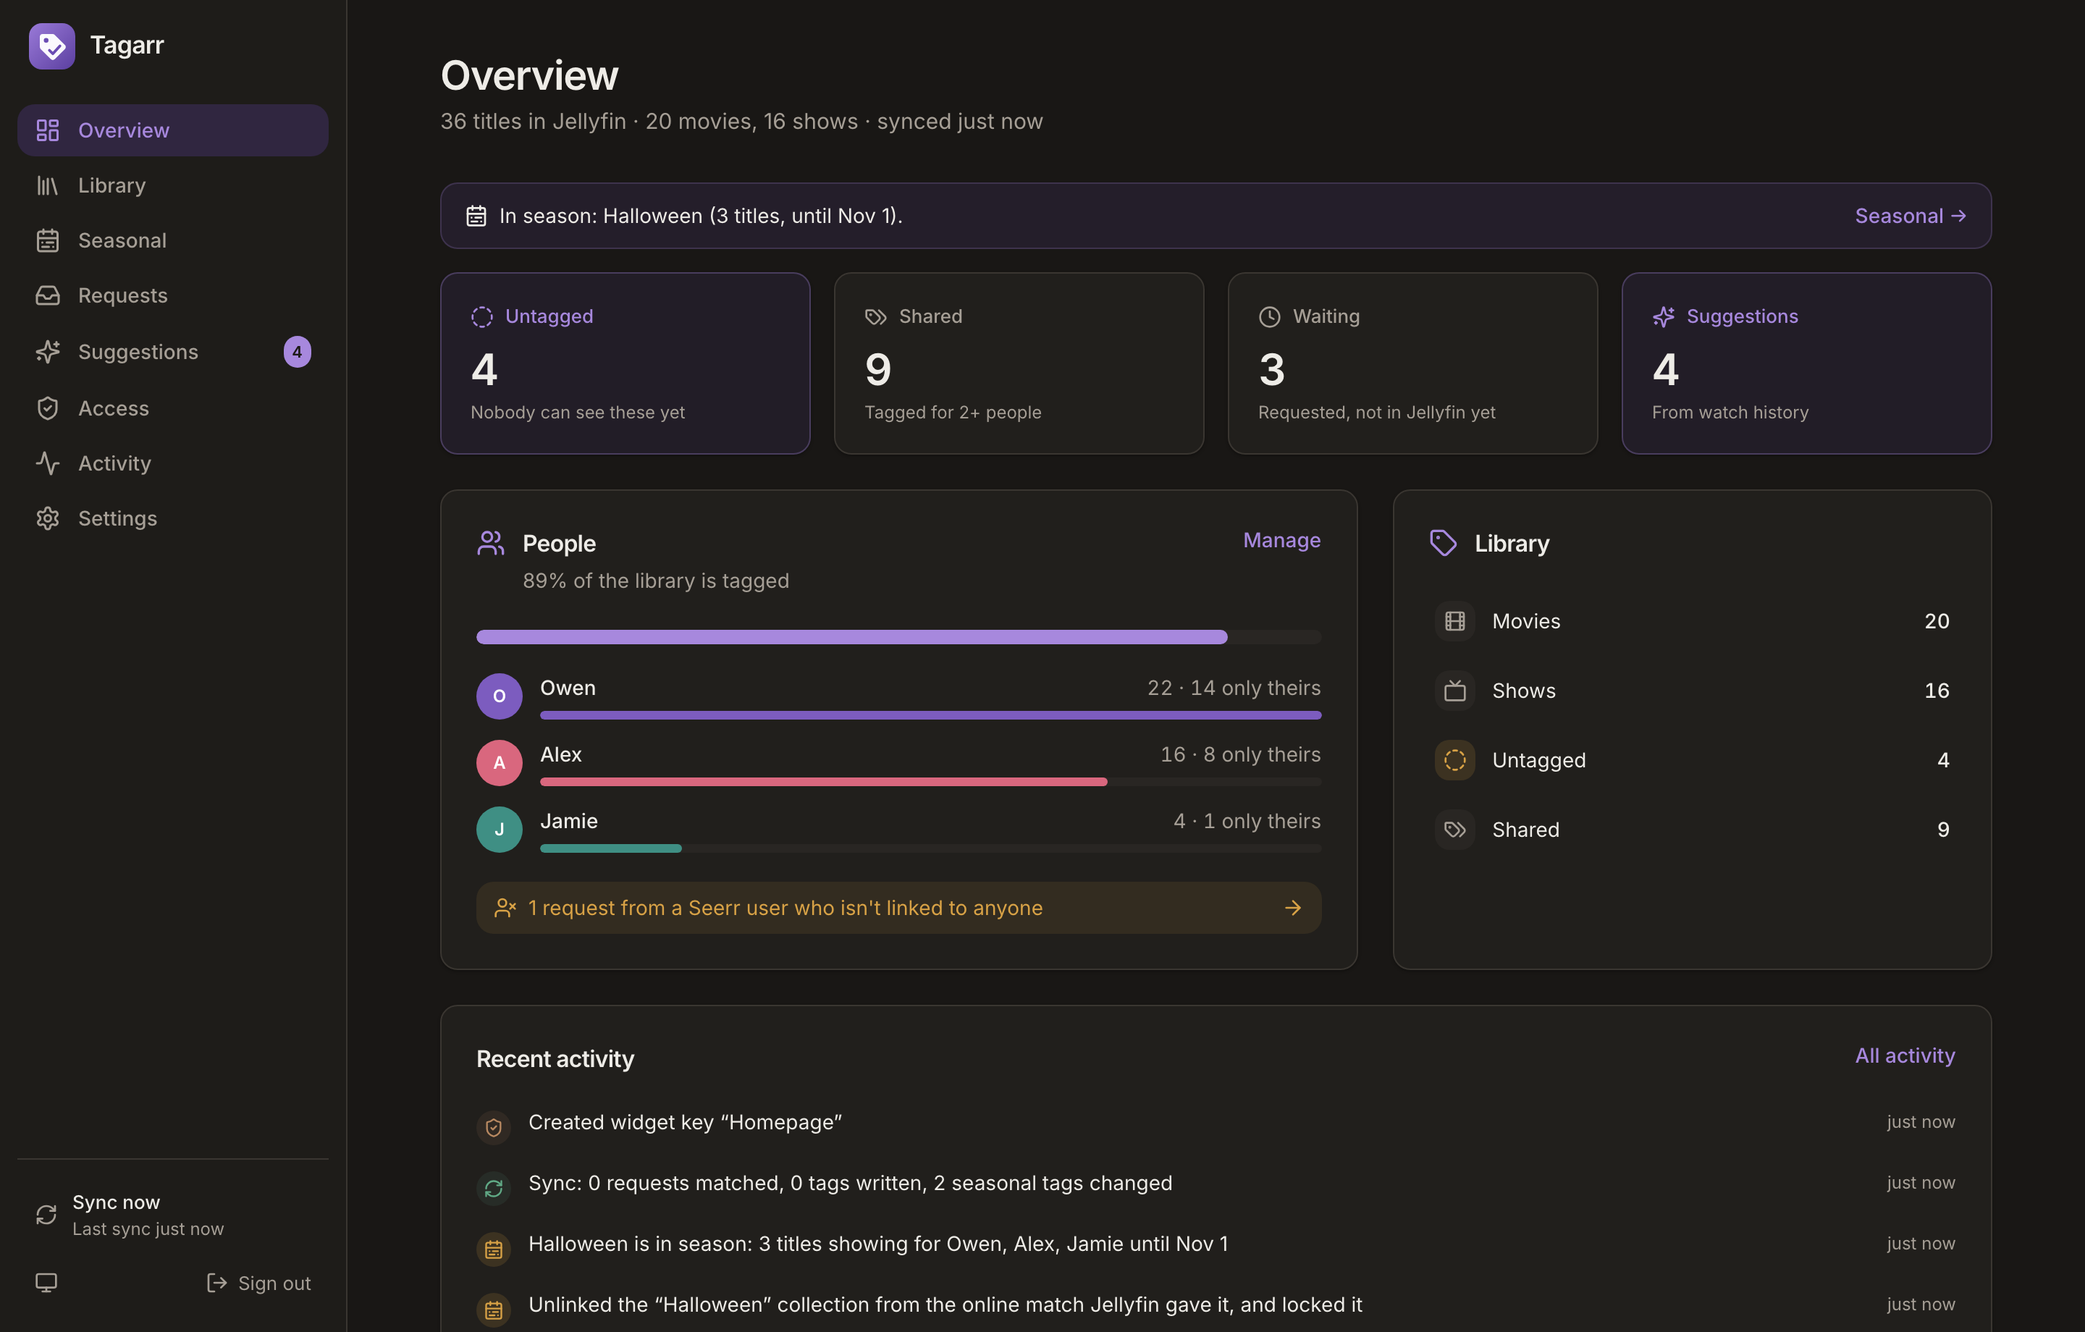
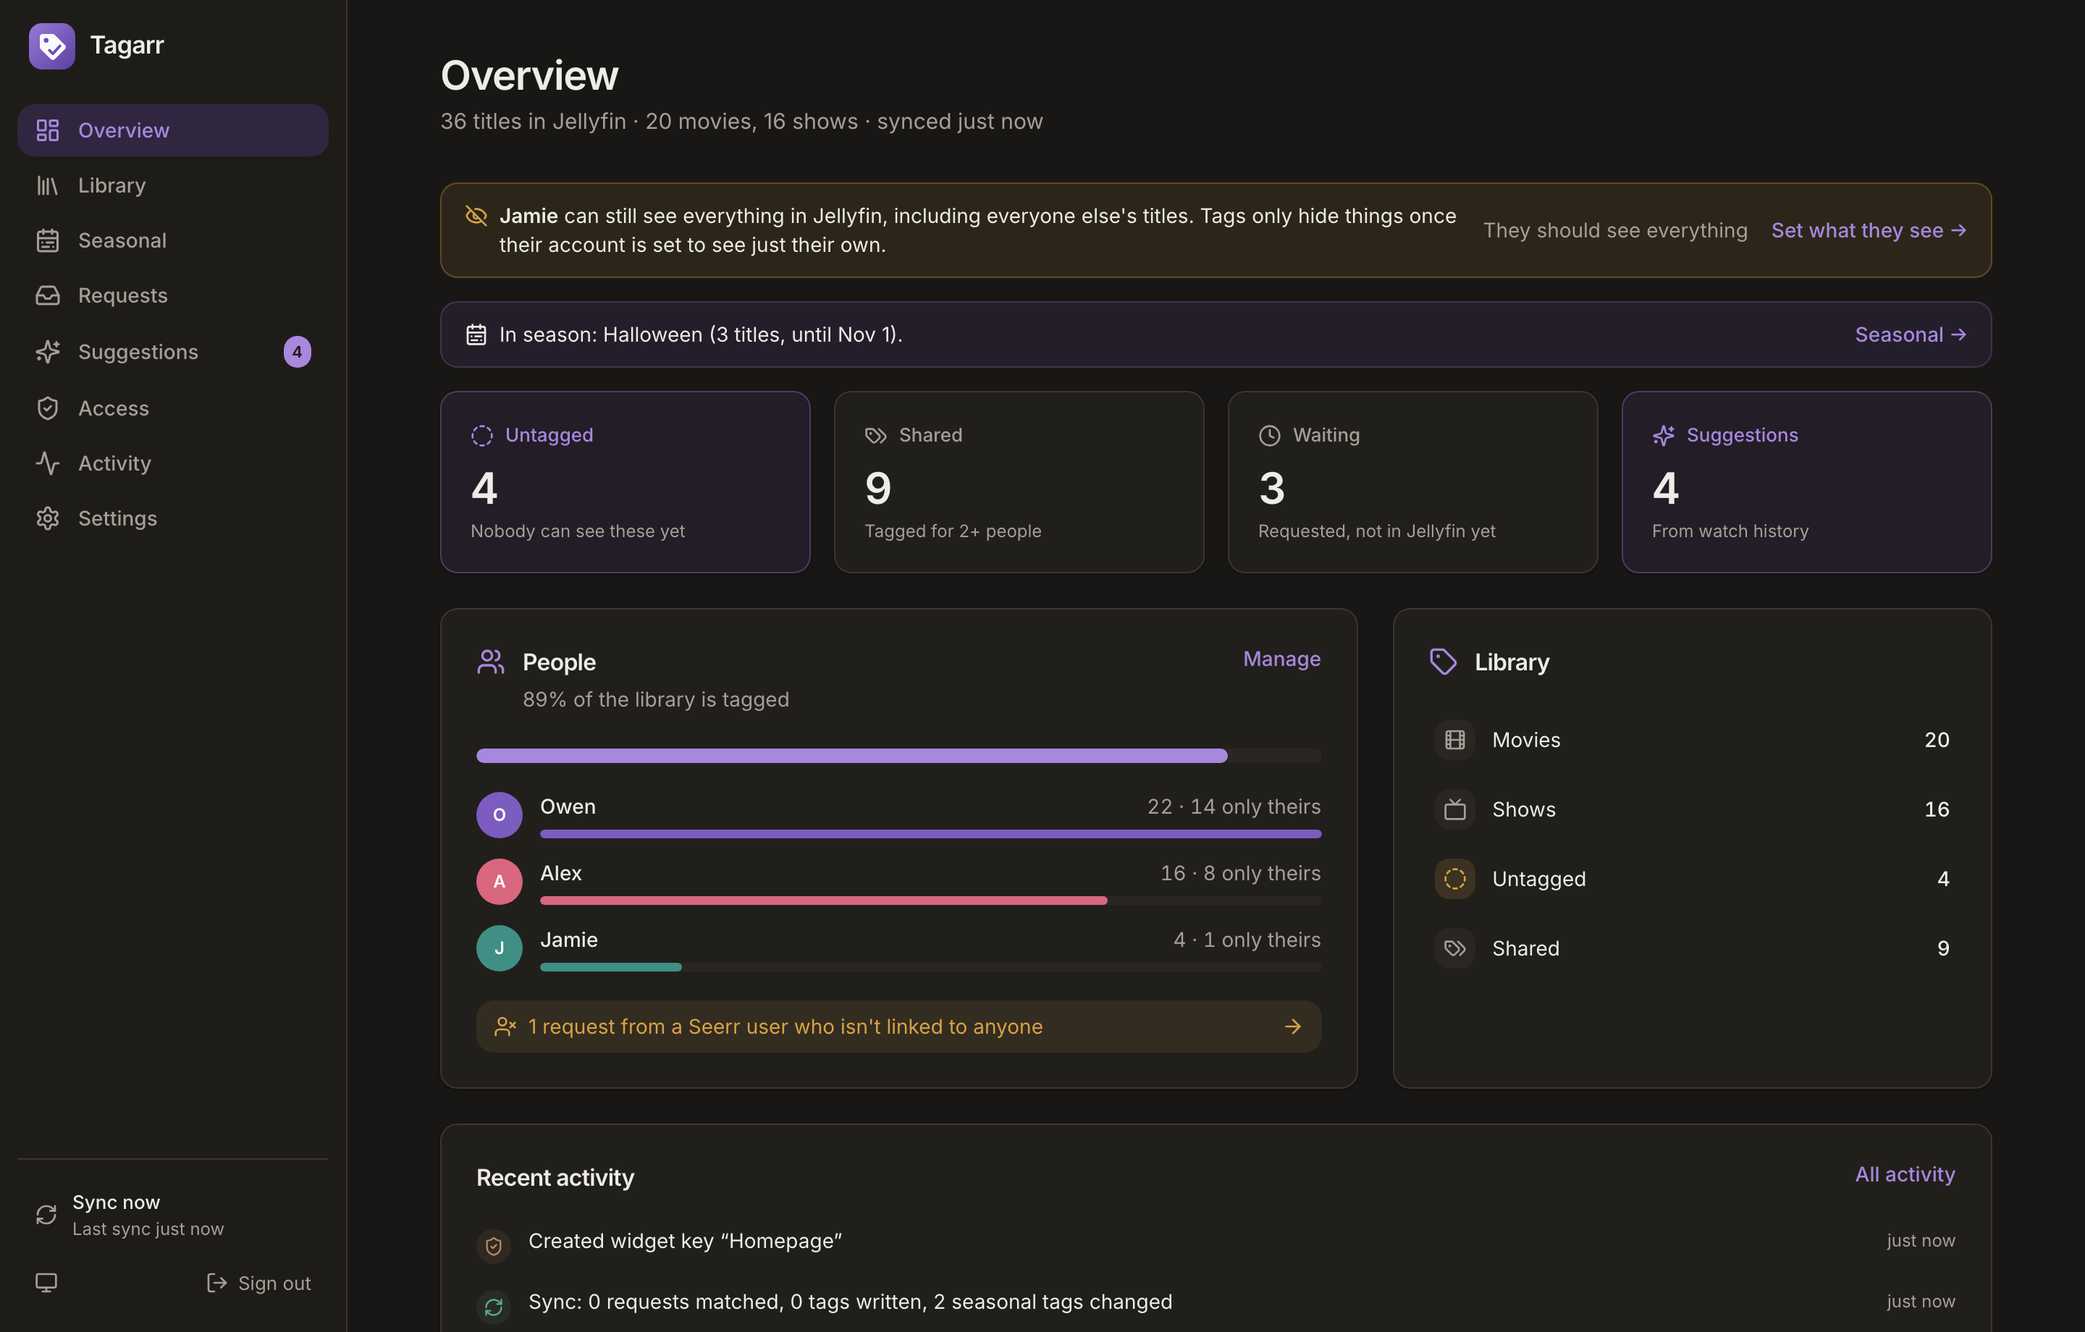
Make it obvious when tags aren't hiding anything yet
Tagging hides nothing until each person's Jellyfin account is limited to
their tag, and setup only mentioned that in passing, so it was easy to
finish setup with everyone still seeing everything. The Overview now
names anyone whose linked Jellyfin account has no tag rule (admins
excepted) and links to Access; "They should see everything" dismisses it,
and Access can undo that. Setup ends with "Finish, then set up access",
and the README quickstart lists access as its own step.

diff --git a/server/app.ts b/server/app.ts
@@ -845,6 +845,7 @@ export async function buildApp(opts: AppOptions): Promise<{ app: FastifyInstance
       unrequestedPeople: s.unrequestedPeople,
       unrequestedGraceHours: s.unrequestedGraceHours,
       ignoredSeerrUsers: s.ignoredSeerrUsers,
+      accessReminderDismissed: s.accessReminderDismissed,
       webhookPath: `/api/webhook/${s.webhookSecret}`,
       adminUsername: s.adminUsername,
       setupComplete: s.setupComplete,
@@ -878,6 +879,9 @@ export async function buildApp(opts: AppOptions): Promise<{ app: FastifyInstance
       const n = Number(body.unrequestedGraceHours);
       if (!Number.isFinite(n) || n < 0 || n > 24 * 365) return reply.code(400).send({ error: "Grace period must be 0 or more hours" });
       patch.unrequestedGraceHours = n;
+    }
+    if (Array.isArray(body.accessReminderDismissed)) {
+      patch.accessReminderDismissed = [...new Set(body.accessReminderDismissed.map(String))];
     }
     if (Array.isArray(body.ignoredSeerrUsers)) {
       patch.ignoredSeerrUsers = [...new Set(body.ignoredSeerrUsers.map(Number).filter(Number.isInteger))];
@@ -945,6 +949,7 @@ export async function buildApp(opts: AppOptions): Promise<{ app: FastifyInstance
     try {
       const [users, info] = await Promise.all([jf.users(), jf.info()]);
       const people = listPeople(db);
+      const dismissed = new Set(getSettings(db).accessReminderDismissed);
       const items = db.prepare("SELECT tags FROM items").all() as { tags: string }[];
       const total = items.length;
       return {
@@ -966,12 +971,43 @@ export async function buildApp(opts: AppOptions): Promise<{ app: FastifyInstance
             blockedTags: blocked,
             visible,
             personId: people.find((p) => p.jellyfin_user_id === u.Id)?.id ?? null,
+            meantToSeeAll: dismissed.has(u.Id),
           };
         }),
       };
     } catch (err) {
       return reply.code(502).send({ error: errorText(err) });
     }
+  });
+
+  // People whose Jellyfin account still sees everything: tagging does nothing
+  // for them until they have a rule. Administrators are left out (they're
+  // usually meant to see it all), and so is anyone dismissed as "meant to".
+  app.get("/api/access/reminders", async () => {
+    const jf = engine.jellyfin();
+    if (!jf) return [];
+    let users;
+    try {
+      users = await jf.users();
+    } catch {
+      return []; // A hint, not an error: the Access page reports connection trouble.
+    }
+    const dismissed = new Set(getSettings(db).accessReminderDismissed);
+    const out: { userId: string; userName: string; personId: number; personName: string }[] = [];
+    for (const p of listPeople(db)) {
+      const u = users.find((x) => x.Id === p.jellyfin_user_id);
+      if (!u || u.Policy?.IsAdministrator || dismissed.has(u.Id) || out.some((o) => o.userId === u.Id)) continue;
+      if ((u.Policy?.AllowedTags ?? []).length || (u.Policy?.BlockedTags ?? []).length) continue;
+      out.push({ userId: u.Id, userName: u.Name, personId: p.id, personName: p.name });
+    }
+    return out;
+  });
+
+  app.post<{ Body: { userIds?: string[] } }>("/api/access/reminders/dismiss", async (req) => {
+    const ids = arrayOf(req.body?.userIds, "string");
+    const s = getSettings(db);
+    saveSettings(db, { accessReminderDismissed: [...new Set([...s.accessReminderDismissed, ...ids])] });
+    return { ok: true };
   });
 
   app.post<{ Params: { userId: string }; Body: { allowedTags?: string[] } }>("/api/access/:userId", async (req, reply) => {

diff --git a/web/src/pages/Setup.tsx b/web/src/pages/Setup.tsx
@@ -1,4 +1,5 @@
 import { useState } from "react";
+import { useNavigate } from "react-router-dom";
 import { useQuery, useQueryClient } from "@tanstack/react-query";
 import { ArrowLeft, ArrowRight, Check } from "lucide-react";
 import { api, get, type SettingsData } from "@/lib/api";
@@ -16,15 +17,17 @@ export default function SetupPage() {
   const settings = useQuery({ queryKey: ["settings"], queryFn: () => get<SettingsData>("/settings") });
   const people = usePeople();
   const [step, setStep] = useState(0);
-  const [finishing, setFinishing] = useState(false);
+  const [finishing, setFinishing] = useState<"" | "sync" | "access">("");
+  const navigate = useNavigate();
 
   if (!settings.data) return <PageSpinner />;
   const s = settings.data;
 
-  const finish = async () => {
-    setFinishing(true);
+  const finish = async (then: "sync" | "access") => {
+    setFinishing(then);
     await api("PUT", "/settings", { setupComplete: true });
     await api("POST", "/sync").catch(() => {});
+    navigate(then === "access" ? "/access" : "/", { replace: true });
     await qc.invalidateQueries();
   };
 
@@ -110,10 +113,11 @@ export default function SetupPage() {
                   <WebhookHelp path={s.webhookPath} />
                 </div>
                 <div>
-                  <h3 className="mb-1.5 font-medium">2. Hide other people's items</h3>
+                  <h3 className="mb-1.5 font-medium">2. Hide other people's items (the important one)</h3>
                   <p className="text-muted-foreground">
-                    Once everything is tagged, the <strong>Access</strong> page sets each Jellyfin user to only see items with their tag. Anything you both request
-                    carries both tags, so it shows for both of you.
+                    Tags alone don't hide anything: each person's Jellyfin account has to be set to only see items with their tag. The <strong>Access</strong> page
+                    does that in one click per person. Anything you both request carries both tags, so it still shows for both of you. Admin accounts can keep
+                    seeing everything.
                   </p>
                 </div>
               </div>
@@ -121,9 +125,14 @@ export default function SetupPage() {
                 <Button variant="ghost" onClick={() => setStep(2)}>
                   <ArrowLeft className="h-4 w-4" /> Back
                 </Button>
-                <Button onClick={finish} loading={finishing}>
-                  Finish and sync <ArrowRight className="h-4 w-4" />
-                </Button>
+                <div className="flex flex-col-reverse gap-2 sm:flex-row">
+                  <Button variant="outline" onClick={() => finish("sync")} loading={finishing === "sync"} disabled={!!finishing}>
+                    Finish and sync
+                  </Button>
+                  <Button onClick={() => finish("access")} loading={finishing === "access"} disabled={!!finishing}>
+                    Finish, then set up access <ArrowRight className="h-4 w-4" />
+                  </Button>
+                </div>
               </div>
             </>
           )}

diff --git a/web/src/pages/Access.tsx b/web/src/pages/Access.tsx
@@ -2,7 +2,7 @@ import { useState } from "react";
 import { useMutation, useQuery, useQueryClient } from "@tanstack/react-query";
 import { Eye, EyeOff, Info, ShieldCheck } from "lucide-react";
 import { toast } from "sonner";
-import { api, get, type AccessUser, type Person } from "@/lib/api";
+import { api, get, type AccessUser, type Person, type SettingsData } from "@/lib/api";
 import { PageHeader, useOverview } from "@/components/Layout";
 import { Avatar, PersonChip, usePeople } from "@/components/people";
 import { Badge, Button, Card, EmptyState, Modal, PageSpinner, cn } from "@/components/ui";
@@ -82,7 +82,10 @@ export default function AccessPage() {
                     ))}
                   </>
                 ) : (
-                  "Sees everything (no tag restriction)"
+                  <>
+                    Sees everything (no tag restriction)
+                    {person && !u.isAdmin && u.meantToSeeAll && <RemindAgain userId={u.id} />}
+                  </>
                 )}
                 {u.blockedTags.length > 0 && (
                   <div className="mt-1.5 text-xs text-muted-foreground">Blocked in Jellyfin: {u.blockedTags.join(", ")}</div>
@@ -125,6 +128,7 @@ function AccessModal({ user, people, onClose }: { user: AccessUser; people: Pers
     mutationFn: () => api("POST", `/access/${user.id}`, { allowedTags: restrict ? tags : [] }),
     onSuccess: () => {
       qc.invalidateQueries({ queryKey: ["access"] });
+      qc.invalidateQueries({ queryKey: ["access-reminders"] });
       qc.invalidateQueries({ queryKey: ["activity"] });
       toast.success(`Updated ${user.name} in Jellyfin`);
       onClose();
@@ -190,4 +194,28 @@ function compareVersion(a: string, b: string) {
   const pb = b.split(".").map(Number);
   for (let i = 0; i < 3; i++) if ((pa[i] ?? 0) !== (pb[i] ?? 0)) return (pa[i] ?? 0) - (pb[i] ?? 0);
   return 0;
+}
+
+/** Undoes "they're meant to see everything" from the Overview reminder. */
+function RemindAgain({ userId }: { userId: string }) {
+  const qc = useQueryClient();
+  const settings = useQuery({ queryKey: ["settings"], queryFn: () => get<SettingsData>("/settings") });
+  const undo = useMutation({
+    mutationFn: () =>
+      api("PUT", "/settings", { accessReminderDismissed: (settings.data?.accessReminderDismissed ?? []).filter((id) => id !== userId) }),
+    onSuccess: () => {
+      qc.invalidateQueries({ queryKey: ["access"] });
+      qc.invalidateQueries({ queryKey: ["access-reminders"] });
+      qc.invalidateQueries({ queryKey: ["settings"] });
+    },
+  });
+  return (
+    <span className="text-muted-foreground">
+      {" "}
+      · on purpose.{" "}
+      <button onClick={() => undo.mutate()} disabled={!settings.data || undo.isPending} className="font-medium text-primary hover:underline">
+        Remind me again
+      </button>
+    </span>
+  );
 }

diff --git a/web/src/pages/Overview.tsx b/web/src/pages/Overview.tsx
@@ -1,4 +1,7 @@
 import { Link } from "react-router-dom";
+import { useMutation, useQuery, useQueryClient } from "@tanstack/react-query";
+import { EyeOff } from "lucide-react";
+import { api, get, type AccessReminder } from "@/lib/api";
 import { AlertTriangle, ArrowRight, CalendarRange, CircleDashed, Clock, Film, Inbox, Sparkles, Tag, Tags, Tv, UserX, Users } from "lucide-react";
 import { PageHeader, useOverview } from "@/components/Layout";
 import { Avatar } from "@/components/people";
@@ -26,6 +29,8 @@ export default function OverviewPage() {
           </>
         }
       />
+
+      <AccessReminderBanner />
 
       {!connections.seerr && (
         <Callout tone="info" icon={<Inbox className="h-4 w-4" />} to="/settings" action="Connect Seerr">
@@ -176,6 +181,42 @@ function Split({ icon, label, value, to, warn }: { icon: React.ReactNode; label:
       <span className="flex-1">{label}</span>
       <span className="font-medium tabular-nums">{value}</span>
     </Link>
+  );
+}
+
+/**
+ * Tagging hides nothing until a person's Jellyfin account is limited to their
+ * tag. Until then, say so (it's the step people miss after setup).
+ */
+function AccessReminderBanner() {
+  const qc = useQueryClient();
+  const reminders = useQuery({ queryKey: ["access-reminders"], queryFn: () => get<AccessReminder[]>("/access/reminders"), staleTime: 60_000 });
+  const dismiss = useMutation({
+    mutationFn: (userIds: string[]) => api("POST", "/access/reminders/dismiss", { userIds }),
+    onSuccess: () => qc.invalidateQueries({ queryKey: ["access-reminders"] }),
+  });
+  const list = reminders.data ?? [];
+  if (!list.length) return null;
+  const names = list.map((r) => r.personName);
+  const who = names.length === 1 ? names[0] : `${names.slice(0, -1).join(", ")} and ${names[names.length - 1]}`;
+  return (
+    <div className="mb-4 flex flex-col gap-3 rounded-xl border border-warning/30 bg-warning/10 px-4 py-3 text-sm sm:flex-row sm:items-center">
+      <span className="flex flex-1 items-start gap-2">
+        <EyeOff className="mt-0.5 h-4 w-4 shrink-0 text-warning" />
+        <span>
+          <strong className="font-semibold">{who}</strong> can still see everything in Jellyfin, including everyone else's titles. Tags only hide things once{" "}
+          {names.length === 1 ? "their account is" : "their accounts are"} set to see just their own.
+        </span>
+      </span>
+      <div className="flex shrink-0 items-center gap-4">
+        <button onClick={() => dismiss.mutate(list.map((r) => r.userId))} disabled={dismiss.isPending} className="text-muted-foreground hover:text-foreground">
+          They should see everything
+        </button>
+        <Link to="/access" className="font-medium text-primary hover:underline">
+          Set what they see →
+        </Link>
+      </div>
+    </div>
   );
 }
 

diff --git a/test/sync.test.ts b/test/sync.test.ts
@@ -445,3 +445,24 @@ test("a title replaced in Jellyfin (new id) stays in its season", async () => {
   assert.equal(season.missingCount, 0);
   await api("DELETE", `/api/seasons/${id}`);
 });
+
+test("people whose Jellyfin account still sees everything are pointed at Access", async () => {
+  const jamie = ((await api("GET", "/api/people")).json as { id: number; name: string }[]).find((p) => p.name === "Jamie")!;
+  await api("PATCH", `/api/people/${jamie.id}`, { jellyfinUserId: "u-jamie" });
+  // Owen's account is an administrator and Alex already has a rule: only Jamie.
+  let reminders = (await api("GET", "/api/access/reminders")).json;
+  assert.deepEqual(reminders.map((r: { personName: string; userId: string }) => [r.personName, r.userId]), [["Jamie", "u-jamie"]]);
+
+  // "That's on purpose" stops the reminder, and Access shows it can be undone.
+  await api("POST", "/api/access/reminders/dismiss", { userIds: ["u-jamie"] });
+  assert.deepEqual((await api("GET", "/api/access/reminders")).json, []);
+  const user = (await api("GET", "/api/access")).json.users.find((u: { id: string }) => u.id === "u-jamie");
+  assert.equal(user.meantToSeeAll, true);
+  await api("PUT", "/api/settings", { accessReminderDismissed: [] });
+  assert.equal((await api("GET", "/api/access/reminders")).json.length, 1);
+
+  // Giving them a rule is what really clears it.
+  await api("POST", "/api/access/u-jamie", { allowedTags: ["Kids"] });
+  reminders = (await api("GET", "/api/access/reminders")).json;
+  assert.deepEqual(reminders, []);
+});

diff --git a/server/db.ts b/server/db.ts
@@ -235,6 +235,8 @@ export interface Settings {
   unrequestedGraceHours: number;
   /** Seerr users whose requests are never tagged (e.g. an admin who sees everything). */
   ignoredSeerrUsers: number[];
+  /** Jellyfin users who are meant to see everything, so aren't nagged about an access rule. */
+  accessReminderDismissed: string[];
   webhookSecret: string;
   adminUsername: string;
   adminPasswordHash: string;
@@ -254,6 +256,7 @@ export const DEFAULT_SETTINGS: Settings = {
   unrequestedPeople: [],
   unrequestedGraceHours: 24,
   ignoredSeerrUsers: [],
+  accessReminderDismissed: [],
   webhookSecret: "",
   adminUsername: "",
   adminPasswordHash: "",

diff --git a/web/src/lib/api.ts b/web/src/lib/api.ts
@@ -149,6 +149,7 @@ export interface SettingsData {
   unrequestedPeople: number[];
   unrequestedGraceHours: number;
   ignoredSeerrUsers: number[];
+  accessReminderDismissed: string[];
   webhookPath: string;
   adminUsername: string;
   setupComplete: boolean;
@@ -198,6 +199,15 @@ export interface AccessUser {
   blockedTags: string[];
   visible: number;
   personId: number | null;
+  /** Dismissed from the "can still see everything" reminder. */
+  meantToSeeAll: boolean;
+}
+
+export interface AccessReminder {
+  userId: string;
+  userName: string;
+  personId: number;
+  personName: string;
 }
 
 export interface About {

diff --git a/scripts/screenshots.ts b/scripts/screenshots.ts
@@ -121,6 +121,8 @@ try {
     await step("overview", async () => {
       await p.goto(base);
       await p.getByText("Recent activity").waitFor();
+      // Nobody's access is set up yet: the Overview says so.
+      if (!dark) await p.getByText(/can still see everything in Jellyfin/).waitFor();
       await shot(p, `overview${suffix}`);
     });
     await step("library", async () => {

diff --git a/README.md b/README.md
@@ -119,7 +119,8 @@ docker compose up -d
 | **Jellyfin** | Its address (e.g. `http://jellyfin:8096` or `http://192.168.1.10:8096`) and an API key from **Dashboard → API Keys → +**. |
 | **Seerr** | Its address and the API key from **Settings → General**. Optional, but it's what makes requests tag themselves. |
 | **People** | Your Seerr users are listed with their Jellyfin accounts already matched: click **Add** on each. Already using tags? Pick the existing tag for each person and everything already tagged is picked up as it is. |
-| **Finish** | Copy the webhook address it shows into Seerr (below), then **Finish and sync**. |
+| **Finish** | Copy the webhook address it shows into Seerr (below), then **Finish, then set up access**. |
+| **Access** | The step that actually hides things: click **Change** on each person's Jellyfin account and limit it to their tag ([details](#hiding-each-others-stuff)). Until you do, everyone still sees everything, and the Overview reminds you. |
 
 That's it. The first sync tags everything that's already been requested.
 
